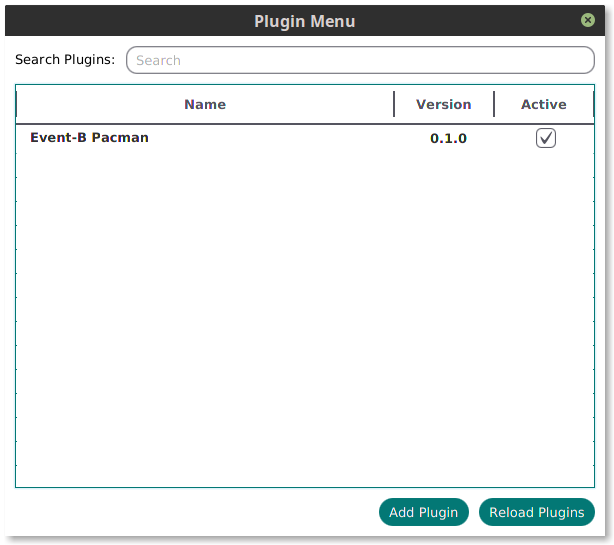
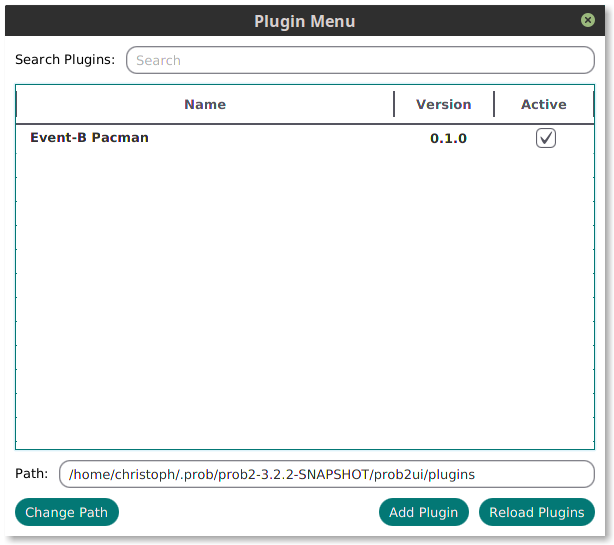
updated readme and error message for inactive file.

Changed region(s): [[0.0, 0.811, 0.9902, 0.967]]

diff --git a/src/main/java/de/prob2/ui/plugin/ProBPluginManager.java b/src/main/java/de/prob2/ui/plugin/ProBPluginManager.java
@@ -145,7 +145,7 @@ public class ProBPluginManager {
                 }
             }
         } else {
-            showWarningAlert(stageManager.getMainStage(), "plugins.error.inactive");
+            showWarningAlert(stageManager.getMainStage(), "plugins.error.inactive", getPluginDirectory());
         }
     }
 

diff --git a/README.md b/README.md
@@ -7,21 +7,39 @@ The following sections describe how these plugins can be used in ProB2-UI and ho
 
 ## Developing a plugin
 
+In the following we assume that you use [gradle](https://gradle.org/) as build tool.
+
+Currently this project isn't published, so have to clone/download the repository and add it as a dependency to your plugin project.
+To add the dependency add the following lines to your `settings.gradle` file. Replace `[PATH]` with the path of your copy of this project.
+
+```
+include ':prob2-ui'
+project(":prob2-ui").projectDir = file("[PATH]")
+```
+
+In the `build.gradle` file you need to add the following line in the dependencies block.
+
+```
+compileOnly project(':prob2-ui') 
+```
+
 There are three classes that you need to know about if you want to develop your own plugins. 
 These classes are:
 * <b>ProBPlugin:</b><p>
-   Extends the plugn class of [PF4J](https://github.com/decebals/pf4j). For your own plugin you need a class which extends this one.
+   Extends the plugin class of [PF4J](https://github.com/decebals/pf4j). For your own plugin you need a class which extends this one.
    In the `startPlugin()` method you should create your plugin and add all the UI-elements and listeners your plugin need. -
    In the `stopPlugin()` method it is necessary to remove all added listeners and UI-elements.
 * <b>ProBPluginManager:</b><p>
-   Extends the `JarPluginManager` class of [PF4J](https://github.com/decebals/pf4j). 
-   The ProB2-UI application uses only a singleton instance of the ProBPluginManager.
+   Is a wrapper for the ProBJarPluginManager. Has methods to add plugins and handles the state of plugins.
+   The ProB2-UI application uses only one singleton instance of the ProBPluginManager.
+* <b>ProBJarPluginManager:</b><p>
+   Extends the `JarPluginManager` class of [PF4J](https://github.com/decebals/pf4j).
    You can use this class to manage the plugins and extension points you need in your plugin.
 * <b>ProBConnection:</b><p>
    This class is a connection between your plugin and the ProB2-UI application. It has some methods 
    to add elements to GUI (like tabs for ex.).
-   
-If you want to use other classes of the ProB2-UI application,
+  
+If you want to use other classes of the ProB2-UI project,
 please use the Guice-injector. You can get an instance of the injector with the
 `getInjector()`-method of the ProBPlugin class.  
 
@@ -54,4 +72,6 @@ This opens a file chooser where you can select the plugin you want to add.
 
 Added plugins are shown in the plugin menu. Here you can activate/deactivate them.
 These plugins are stored in a plugins folder and are automatically loaded/started when you start the ProB2-UI application.
+
+You can change the directory where the application stores the plugins with the button "Change Path" (see image above).
 
